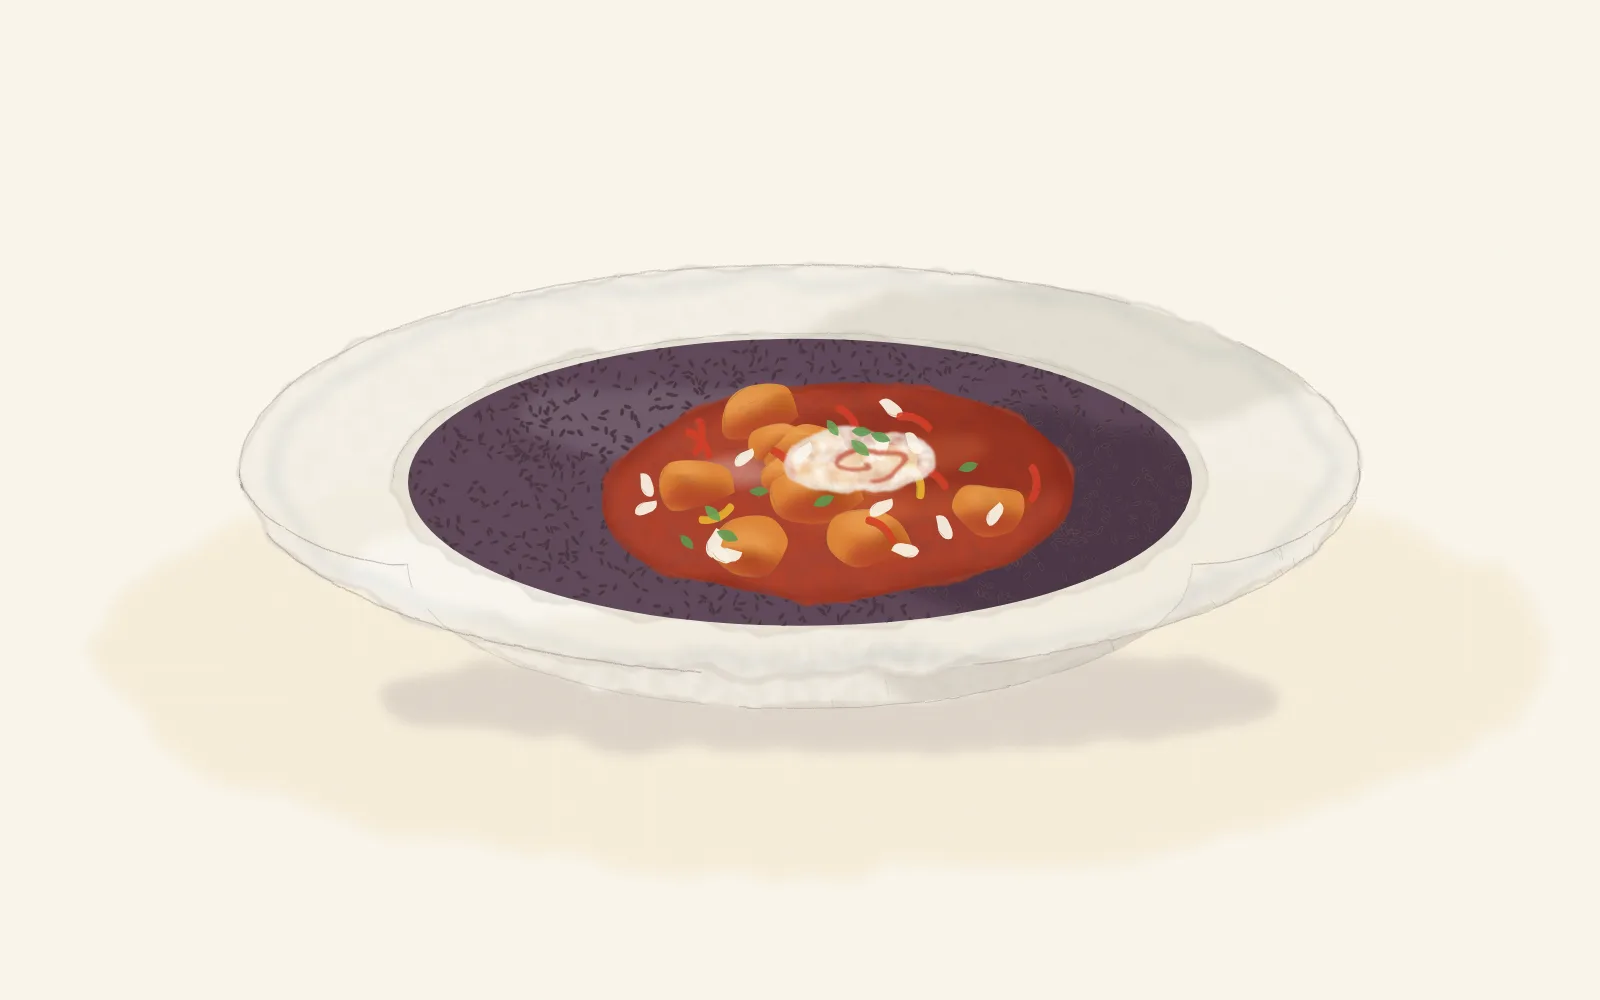
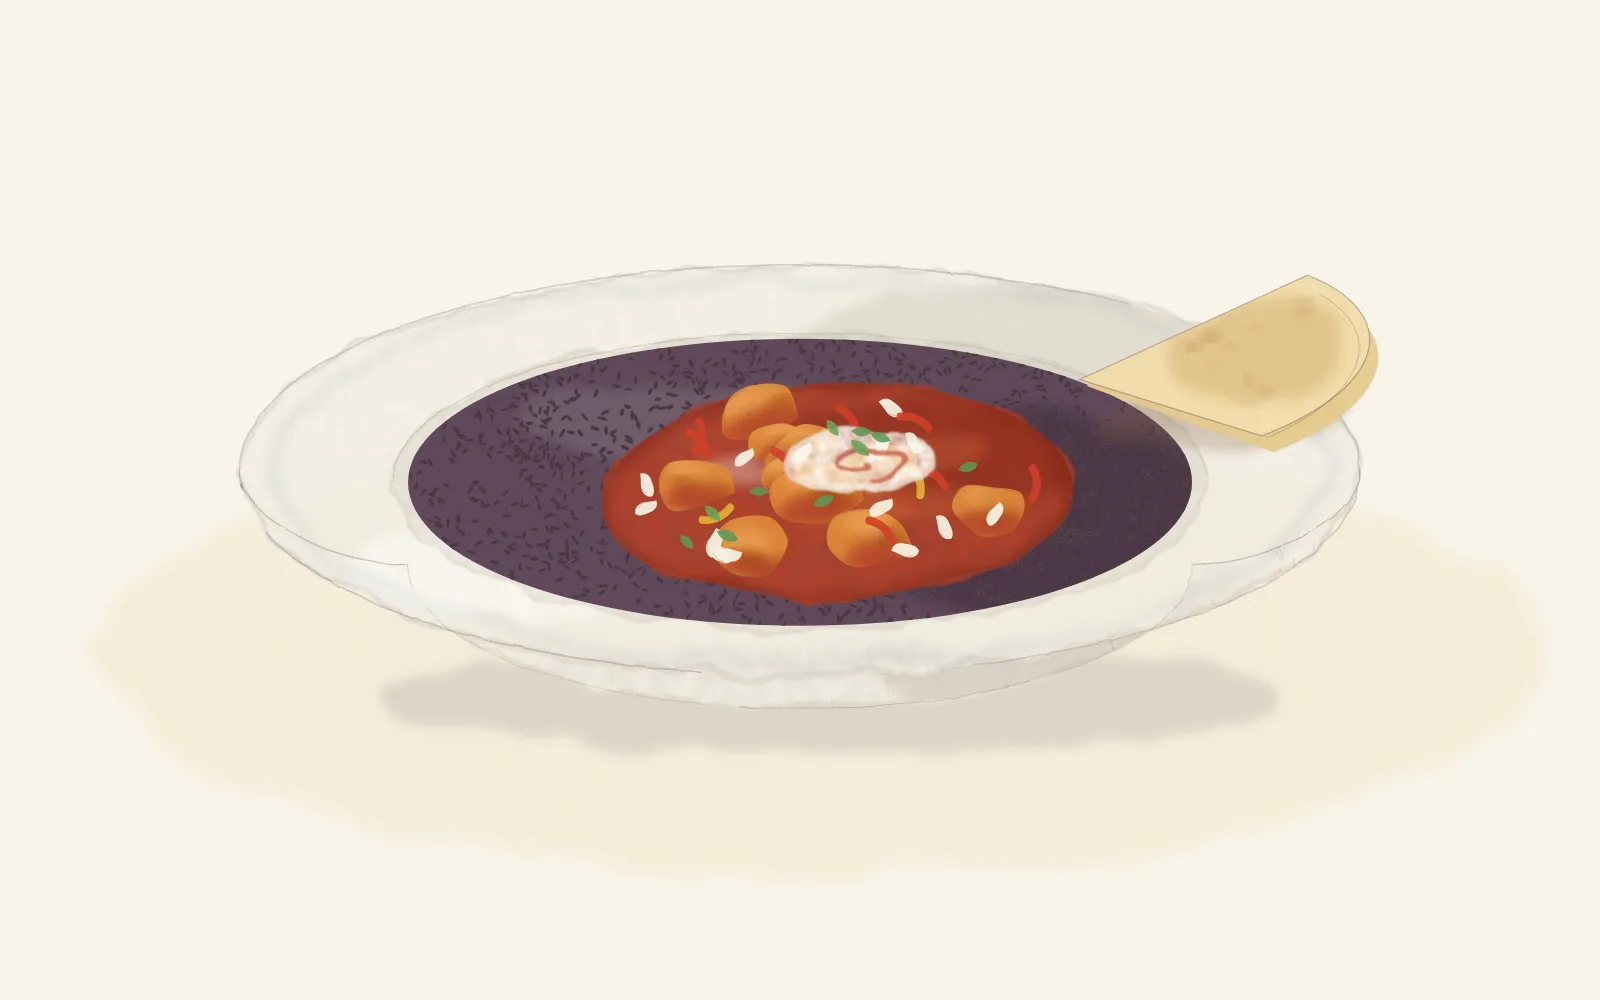
Add a folded tortilla to the veggie chilli illustration
The recipe serves the chilli with warm tortillas, so one now rests
folded on the bowl's rim. Adds a reusable tortilla() helper to foods.py.

Claude-Session: https://claude.ai/code/session_01VeGYCn6prtAfpYE8xy5n9V

Changed region(s): [[0.6562, 0.279, 0.875, 0.465]]

diff --git a/.claude/skills/recipe-illustration/toolkit/foods.py b/.claude/skills/recipe-illustration/toolkit/foods.py
@@ -285,3 +285,34 @@ def pool_point(pool, rmax=0.85, lift=18):
     px, py, prx, pry = pool
     r, t = math.sqrt(random.random()) * rmax, random.uniform(0, 2 * math.pi)
     return px + prx * r * math.cos(t), py + pry * r * math.sin(t) - lift * (1 - r)
+
+
+def tortilla(sk, x, y, size=120, rot=-12, color="#f1dcaa"):
+    """
+    A warm flour tortilla folded into quarters, resting on a rim or plate: a
+    pale wedge with a curved outer edge, a second layer showing at the fold,
+    and griddle char spots.
+    """
+    s = size
+    tr = f'transform="rotate({rot} {x:.1f} {y:.1f})"'
+    # the folded wedge: point at (x, y), curved edge out to the right (squashed for the 30° view)
+    wedge = (f"M{x:.1f},{y:.1f} L{x + s * 0.95:.1f},{y - s * 0.32:.1f} "
+             f"A{s},{s * 0.42} 0 0 1 {x + s * 0.7:.1f},{y + s * 0.3:.1f} Z")
+    under = (f"M{x + 6:.1f},{y + 7:.1f} L{x + s * 0.99:.1f},{y - s * 0.24:.1f} "
+             f"A{s},{s * 0.42} 0 0 1 {x + s * 0.74:.1f},{y + s * 0.37:.1f} Z")
+    sk.add(f'<g {tr}>')
+    sk.blot(x + s * 0.55, y + s * 0.2, s * 0.5, s * 0.14, "#7a5a3a", 0.25)
+    sk.add(f'<path d="{under}" fill="#e6c98d" opacity="0.95"/>')
+    sk.add(f'<path d="{wedge}" fill="{color}" opacity="0.97"/>')
+    sk.clip(wedge)
+    sk.blot(x + s * 0.75, y - s * 0.05, s * 0.35, s * 0.2, "#c99a55", 0.35)
+    for _ in range(14):
+        u, v = random.uniform(0.25, 0.95), random.uniform(-0.25, 0.25)
+        cx, cy = x + s * u, y + s * v * u
+        sk.add(f'<ellipse cx="{cx:.1f}" cy="{cy:.1f}" rx="{random.uniform(3, 8):.1f}" ry="{random.uniform(2, 4):.1f}" '
+               f'fill="#8a5420" opacity="{random.uniform(0.25, 0.55):.2f}" filter="url(#softwash)"/>')
+    sk.end_clip()
+    sk.add('</g>')
+    sk.add(f'<path d="{wedge}" fill="none" stroke="{GRAPHITE}" stroke-width="1.1" opacity="0.5" {tr}/>')
+    sk.add(f'<path d="M{x + s * 0.72:.1f},{y + s * 0.31:.1f} A{s},{s * 0.42} 0 0 0 {x + s * 0.99:.1f},{y - s * 0.24:.1f}" '
+           f'fill="none" stroke="{GRAPHITE}" stroke-width="0.9" opacity="0.4" {tr}/>')

diff --git a/.claude/skills/recipe-illustration/dishes/veggie-chilli.py b/.claude/skills/recipe-illustration/dishes/veggie-chilli.py
@@ -1,6 +1,6 @@
 """Veggie chilli: a deep red chilli of chargrilled sweet potato, peppers and
 cannellini beans on black rice, with a dollop of yoghurt rippled with chilli
-sauce and mint leaves."""
+sauce and mint leaves, and a warm tortilla folded on the rim."""
 import math, random, sys, os
 sys.path.insert(0, os.path.join(os.path.dirname(__file__), "..", "toolkit"))
 from sketchkit import Sketch, ShallowBowl
@@ -24,4 +24,6 @@ foods.swirl(sk, dx, dy, 48, 18, color="#c23a1c", width=4, turns=1.2, opacity=0.7
 for _ in range(10):
     foods.leaf(sk, *foods.pool_point(pool, lift=22), size=random.uniform(12, 15), color=random.choice(["#5f9a52", "#6aa65a"]), kind="mint")
 bowl.draw_rim()
+tx, ty = bowl.rim_point(-0.55, 0.9, 6)
+foods.tortilla(sk, tx - 150, ty, size=250, rot=-6)
 sk.save(sys.argv[1] if len(sys.argv) > 1 else "veggie-chilli.svg")
